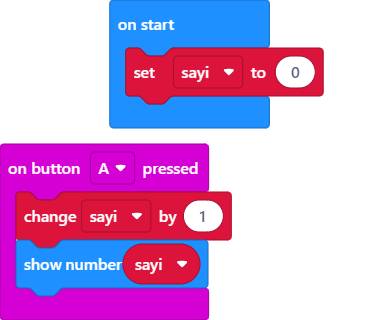
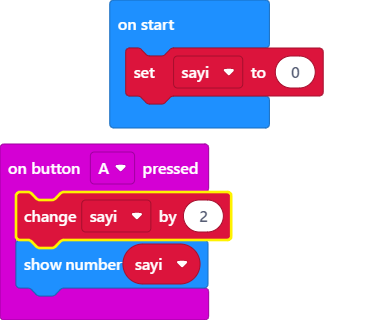
sayı değişkeni tekrar  2'şer sayı arttırıldı.

Changed region(s): [[0.0293, 0.5938, 0.6453, 0.7812]]

diff --git a/main.ts b/main.ts
@@ -1,5 +1,5 @@
 input.onButtonPressed(Button.A, function () {
-    sayi += 1
+    sayi += 2
     basic.showNumber(sayi)
 })
 let sayi = 0
